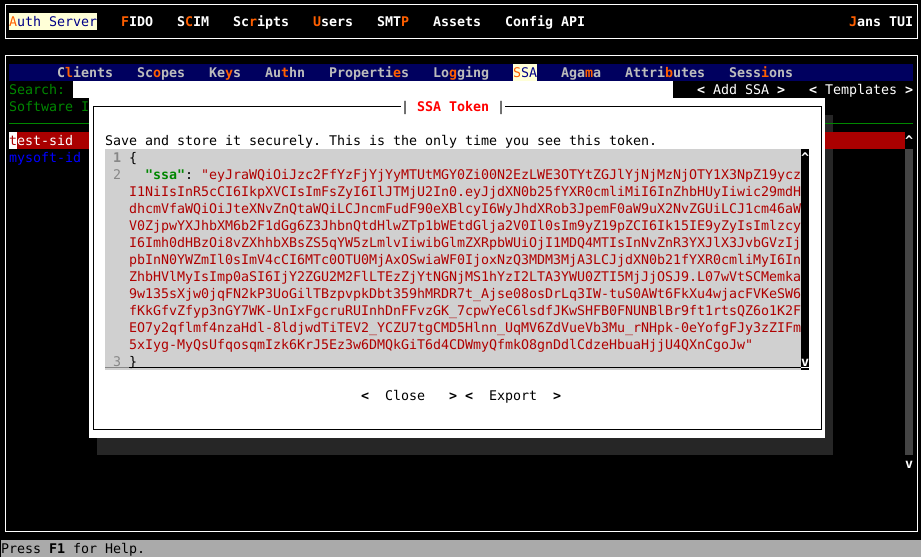
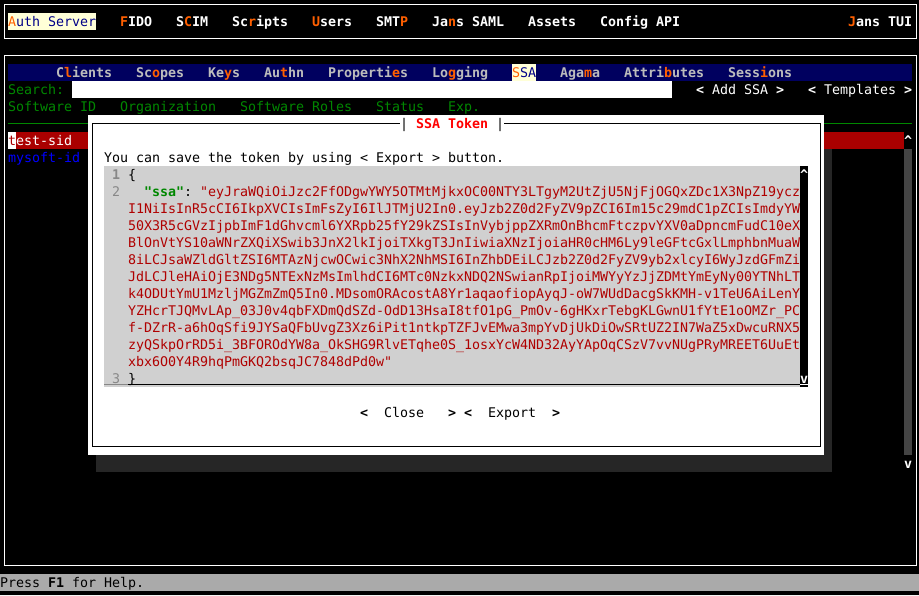
fix(docs): SSA details screen

Changed region(s): [[0.0, 0.0, 1.0, 0.8546], [0.0, 0.9461, 1.0, 1.0]]

diff --git a/docs/janssen-server/config-guide/auth-server-config/ssa-config.md b/docs/janssen-server/config-guide/auth-server-config/ssa-config.md
@@ -299,16 +299,17 @@ Please see description of fields at [SSA field descriptions](./../../auth-server
 If you are going to create similar SSA, you can save as template by enabling checkbox **Save as Template** and write a template name.
 
 Once you hit **<   Save   >** button, you will have a dialog which displays created SSA as jwt. Please save it by
-using button **<  Export  >**. _This is the only time you see the token._
+using button **<  Export  >**.
 
 ![TUI SSA Export](../../../assets/tui-ssa-export.png)
 
 If you saved as template, you can re-use it by hitting button **< Templates >** which opens a dialog that lists saved
 SSA templates.
 
-To get the detail of any SSA, bring the control on that SSA (using the tab key), and press `v`. Also can export the detail.
+To get the detail of any SSA, bring the control on that SSA (using the up-down arrows), and press **Enter**, you will have
+the following dialog, so that you can display SSA token, revoke (delete) and also edit details and recreate.
 
-![image](../../../assets/tui-ssa-detail.png)
+![TUI SSA Details](../../../assets/tui-ssa-detail.png)
 
 
 ## Using Configuration REST API
